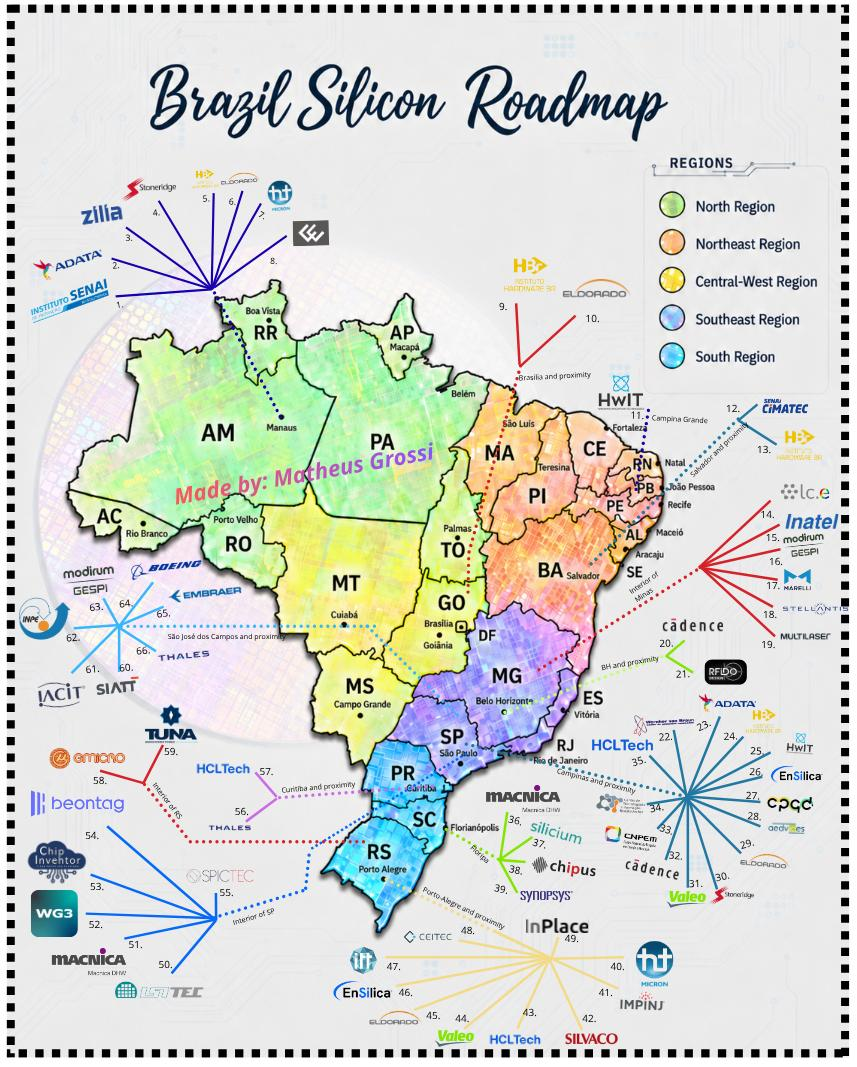
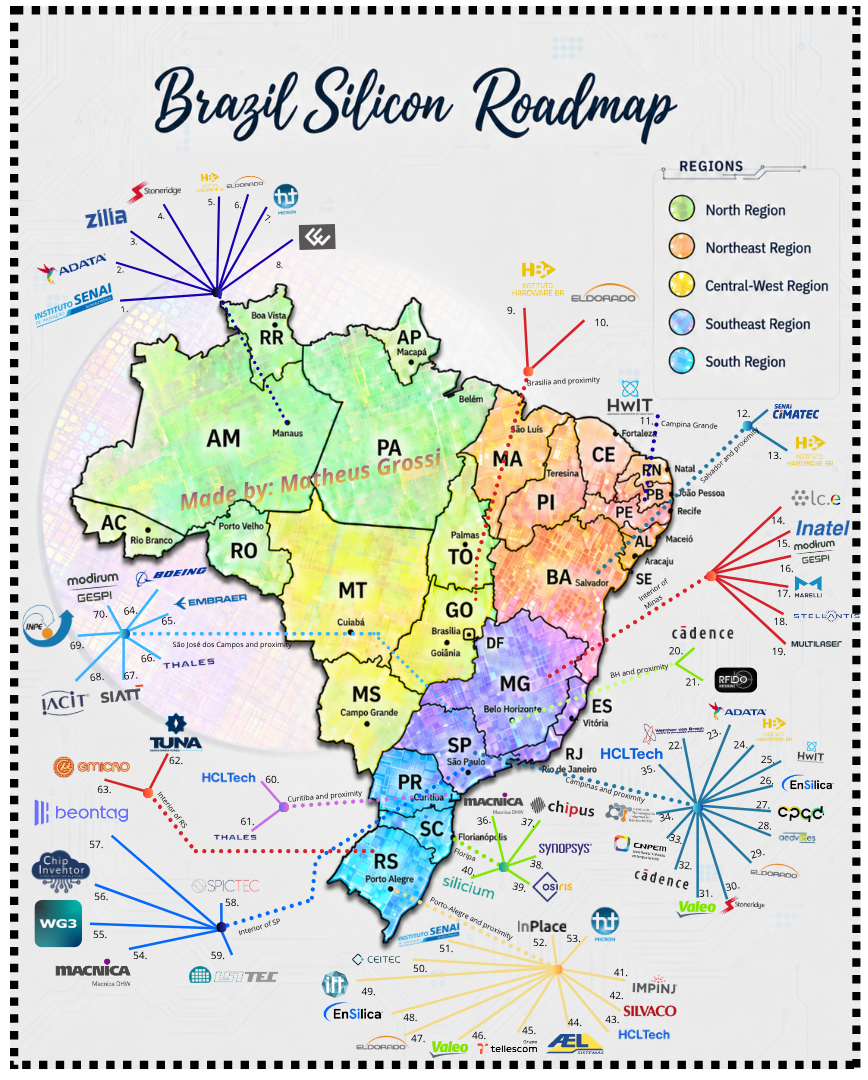
Atualização do roadmap com novas empresas

diff --git a/README.md b/README.md
@@ -1,5 +1,67 @@
-# brazil_silicon_roadmap
+# Brazil Silicon Roadmap
 
-A simple repository created to group the information related to this project.
+This repository consolidates the Brazilian semiconductor, microelectronics, ASIC/SoC, and FPGA ecosystem into a bilingual map built from spreadsheet data. The source material in `existing-spreadsheets/` is transformed into a structured dataset used by the static interactive atlas under `docs/`.
 
 [![Brazil Silicon Roadmap](./roadmap.jpeg)](./roadmap.jpeg)
+
+## Overview
+
+The roadmap tracks organizations working in hardware design, semiconductor research, FPGA development, embedded systems, and related applied electronics across Brazil. The current dataset is based on:
+
+- `existing-spreadsheets/road_map_table_EN.xlsx` — English source workbook
+- `existing-spreadsheets/road_map_table_PT-BR.xlsx` — Portuguese source workbook
+
+## Dataset snapshot
+
+From the source spreadsheets and generated dataset in `docs/data/companies.json`:
+
+- 48 organizations identified
+- 70 mapped points across Brazil
+- 13 geographic clusters identified
+- 5 organization categories represented
+
+The map covers major hubs such as Manaus, Brasília, Campina Grande, Salvador, Belo Horizonte, Campinas, Florianópolis, Porto Alegre, Curitiba, São José dos Campos, and other semiconductor and electronics clusters across the country.
+
+## Repository structure
+
+- `existing-spreadsheets/` — source workbooks in English and Portuguese
+- `scripts/convert_xlsx.py` — converts the spreadsheets into the JSON used by the website
+- `docs/data/companies.json` — generated dataset used by the browser app
+- `docs/` — static interactive map and web assets
+- `INTERACTIVE_MAP.md` — local build and deployment instructions
+
+## Regenerating the map
+
+From the repository root:
+
+```powershell
+py -m pip install -r requirements.txt
+py .\scripts\convert_xlsx.py `
+  --english .\existing-spreadsheets\road_map_table_EN.xlsx `
+  --portuguese .\existing-spreadsheets\road_map_table_PT-BR.xlsx `
+  --output .\docs\data\companies.json
+```
+
+Then serve the site locally:
+
+```powershell
+py -m http.server 8000 --directory docs
+```
+
+Open `http://localhost:8000` in a browser.
+
+## Data included in each entry
+
+Each organization in the spreadsheet contains:
+
+- company name
+- type of organization
+- activity description
+- source/reference URL
+- geographic cluster(s) in Brazil
+
+This keeps the map aligned with the source spreadsheets and makes it easy to update the project when new companies or regions are added.
+
+## License and source
+
+The repository is built for public research and ecosystem mapping. The data and site are maintained in this project and are intended to support visibility for Brazil's semiconductor and microelectronics ecosystem.
